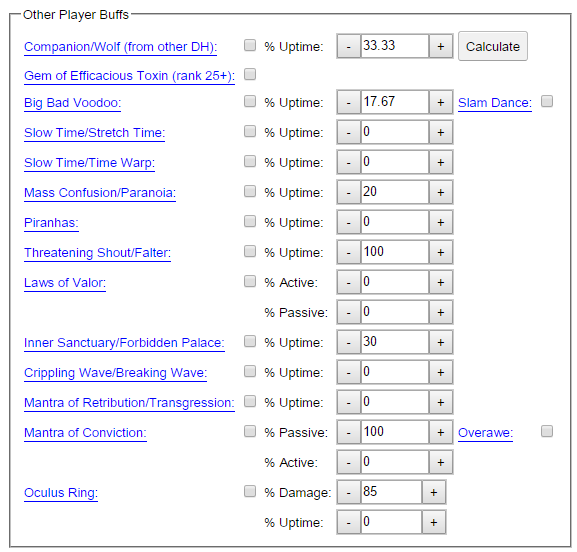
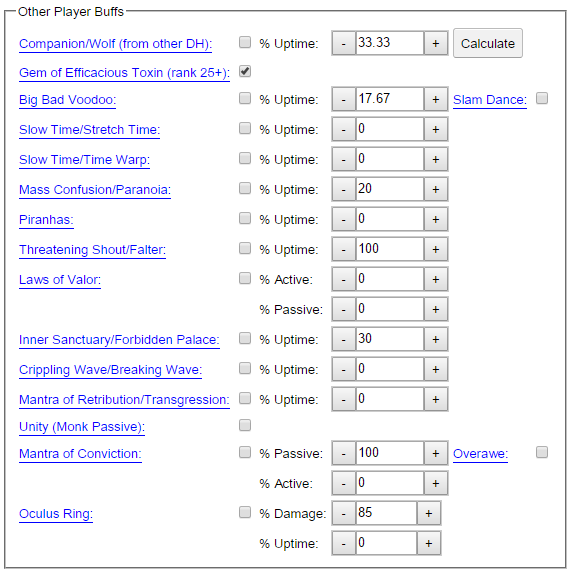
Added Monk Unity Buff

Changed region(s): [[0.0, 0.0, 1.0, 1.0]]

diff --git a/war/help.html b/war/help.html
@@ -360,6 +360,7 @@ These values must all be specified manually (default is no player buffs).
 <li><b>Inner Sanctuary/Forbidden Palace</b>: If a Monk is using Inner Sanctuary with Forbidden Palace rune. Also specify the percent of the time that it is being used.</li>
 <li><b>Crippling Wave/Breaking Wave</b>: If a Monk is using Crippling Wave with Breaking Wave rune. Also specify the percent of the time that it is being used.</li>
 <li><b>Mantra of Retribution/Transgression</b>: If a Monk is using Mantra of Retribution with Transgression rune. Also specify the percent of the time that it is being used.</li>
+<li><b>Unity (Monk Passive)</b>: If a Monk is using Unity passive.</li>
 <li><b>Mantra of Conviction</b>: If a Crusader is using Matra of Conviction. Also specify the percent of the time that the active portion is being used and percent of time passive only is being used. Also specify if the Overawe rune is being used</li>
 <li><b>Oculus Ring</b>: If another player is using Oculus Ring. Also specify the damage increase percent and percent of the time that the buff is active. If multiple oculus rings are used, they will be averaged.</li>
 </ul>

diff --git a/src/com/dawg6/web/dhcalc/shared/calculator/DamageMultiplier.java b/src/com/dawg6/web/dhcalc/shared/calculator/DamageMultiplier.java
@@ -1417,14 +1417,28 @@ public enum DamageMultiplier {
 			new Test<SimulationState, Double>() {
 				@Override
 				public Double getValue(SimulationState state) {
-					return state.getBuffs().isActive(Buff.Falter) ? 0.25
-							: 0.0;
+					return state.getBuffs().isActive(Buff.Falter) ? 0.25 : 0.0;
 				}
 
 				@Override
 				public Double getMax(boolean sentry, DamageRow row,
 						CharacterData data) {
-					return (data.isFalter() && (data.getFalterUptime() > 0)) ? 0.25 : 0.0;
+					return (data.isFalter() && (data.getFalterUptime() > 0)) ? 0.25
+							: 0.0;
+				}
+			}), Unity("Unity", DamageAccumulator.Additive,
+			"Monk Unity Passive bonus (5%)",
+			new Test<SimulationState, Double>() {
+				@Override
+				public Double getValue(SimulationState state) {
+					return state.getData().isUnity() ? 0.05 : 0.0;
+				}
+
+				@Override
+				public Double getMax(boolean sentry, DamageRow row,
+						CharacterData data) {
+					return data.isUnity() ? 0.05
+							: 0.0;
 				}
 			}), InnerSanctuary(
 			"InnerSanctuary",
@@ -1624,14 +1638,15 @@ public enum DamageMultiplier {
 				@Override
 				public Double getValue(SimulationState state) {
 					return ((state.getData().isToxin() && state.getData()
-							.getToxinLevel() >= 25) || state.getData().isOtherPlayerToxin()) ? 0.1 : 0.0;
+							.getToxinLevel() >= 25) || state.getData()
+							.isOtherPlayerToxin()) ? 0.1 : 0.0;
 				}
 
 				@Override
 				public Double getMax(boolean sentry, DamageRow row,
 						CharacterData data) {
-					return ((data.isToxin() && data.getToxinLevel() >= 25) || data.isOtherPlayerToxin()) ? 0.1
-							: 0.0;
+					return ((data.isToxin() && data.getToxinLevel() >= 25) || data
+							.isOtherPlayerToxin()) ? 0.1 : 0.0;
 				}
 			}), Ambush("Ambush", DamageAccumulator.Multiplicative,
 			"Ambush (40% to enemies above 75% health)",

diff --git a/src/com/dawg6/web/dhcalc/shared/calculator/CharacterData.java b/src/com/dawg6/web/dhcalc/shared/calculator/CharacterData.java
@@ -62,6 +62,7 @@ public class CharacterData implements Serializable {
 	private boolean massConfusion;
 	private boolean piranhas;
 	private boolean falter;
+	private boolean unity;
 	private boolean toxin;
 	private boolean innerSanctuary;
 	private boolean conviction;
@@ -222,6 +223,7 @@ public class CharacterData implements Serializable {
 		massConfusion = false;
 		piranhas = false;
 		falter = false;
+		unity = false;
 		toxin = false;
 		valor = false;
 		innerSanctuary = false;
@@ -397,6 +399,7 @@ public class CharacterData implements Serializable {
 		this.topaz= other.topaz;
 		this.toxin = other.toxin;
 		this.transgression = other.transgression;
+		this.unity = other.unity;
 		this.valor = other.valor;
 		this.valorPassiveUptime = other.valorPassiveUptime;
 		this.valorActiveUptime = other.valorActiveUptime;
@@ -665,8 +668,16 @@ public class CharacterData implements Serializable {
 		return falter;
 	}
 
+	public boolean isUnity() {
+		return unity;
+	}
+
 	public void setFalter(boolean falter) {
 		this.falter = falter;
+	}
+
+	public void setUnity(boolean unity) {
+		this.unity = unity;
 	}
 
 	public boolean isOtherPlayerToxin() {

diff --git a/src/com/dawg6/web/dhcalc/client/PlayerBuffPanel.java b/src/com/dawg6/web/dhcalc/client/PlayerBuffPanel.java
@@ -64,6 +64,7 @@ public class PlayerBuffPanel extends Composite {
 	private final SimpleCheckBox falter;
 	private final DoubleSpinner falterUptime;
 	private final SimpleCheckBox toxin;
+	private final SimpleCheckBox unity;
 
 	public PlayerBuffPanel() {
 		
@@ -329,6 +330,17 @@ public class PlayerBuffPanel extends Composite {
 		
 		row++;
 		
+		Anchor anchor_6c = new Anchor("Unity (Monk Passive):");
+		anchor_6c.setWordWrap(false);
+		anchor_6c.setTarget("_blank");
+		anchor_6c.setHref("http://us.battle.net/d3/en/class/monk/passive/unity");
+		flexTable.setWidget(row, 0, anchor_6c);
+		
+		unity = new SimpleCheckBox();
+		flexTable.setWidget(row, 1, unity);
+
+		row++;
+		
 		Anchor anchor_5 = new Anchor("Mantra of Conviction:");
 		anchor_5.setWordWrap(false);
 		anchor_5.setTarget("_blank");
@@ -591,6 +603,10 @@ public class PlayerBuffPanel extends Composite {
 
 	public SimpleCheckBox getTimeWarp() {
 		return timeWarp;
+	}
+
+	public SimpleCheckBox getUnity() {
+		return unity;
 	}
 
 	public SimpleCheckBox getStretchTime() {

diff --git a/src/com/dawg6/web/dhcalc/client/MainPanel.java b/src/com/dawg6/web/dhcalc/client/MainPanel.java
@@ -2393,6 +2393,8 @@ public class MainPanel extends BasePanel {
 						Boolean.FALSE.toString()),
 				new Field(this.playerBuffPanel.getFalter(), "Falter",
 						Boolean.FALSE.toString()),
+				new Field(this.playerBuffPanel.getUnity(), "MonkUnity",
+						Boolean.FALSE.toString()),
 				new Field(this.playerBuffPanel.getToxin(), "OtherPlayerToxin",
 						Boolean.FALSE.toString()),
 				new Field(this.playerBuffPanel.getStretchTime(), "StretchTime",
@@ -2586,6 +2588,7 @@ public class MainPanel extends BasePanel {
 			data.setPiranhasUptime(playerBuffPanel.getPiranhasUptime()
 					.getValue() / 100.0);
 			data.setFalter(playerBuffPanel.getFalter().getValue());
+			data.setUnity(playerBuffPanel.getUnity().getValue());
 			data.setFalterUptime(playerBuffPanel.getFalterUptime()
 					.getValue() / 100.0);
 			data.setOtherPlayerToxin(playerBuffPanel.getToxin().getValue());

diff --git a/src/com/dawg6/web/dhcalc/shared/calculator/DamageRow.java b/src/com/dawg6/web/dhcalc/shared/calculator/DamageRow.java
@@ -149,6 +149,7 @@ public class DamageRow {
 		this.multipliers.add(DamageMultiplier.Paranoia);
 		this.multipliers.add(DamageMultiplier.Piranhas);
 		this.multipliers.add(DamageMultiplier.Falter);
+		this.multipliers.add(DamageMultiplier.Unity);
 		this.multipliers.add(DamageMultiplier.InnerSanctuary);
 		this.multipliers.add(DamageMultiplier.CripplingWave);
 		this.multipliers.add(DamageMultiplier.Conviction);

diff --git a/src/com/dawg6/web/dhcalc/client/DPSCalculator.java b/src/com/dawg6/web/dhcalc/client/DPSCalculator.java
@@ -737,6 +737,14 @@ public class DPSCalculator extends BasePanel {
 				aCD += 0.5;
 			}
 		}
+		
+		if (main.getPlayerBuffs().getUnity().getValue()) {
+			aDam += 0.05;
+		}
+
+		if (main.getPlayerBuffs().getFalter().getValue()) {
+			aDam += 0.25;
+		}
 
 		// Steady Aim is now multiplicative and doesn't show up in Sheet DPS
 //		if (main.getPassivesPanel().getPassives().contains(Passive.Steady_Aim)) {
